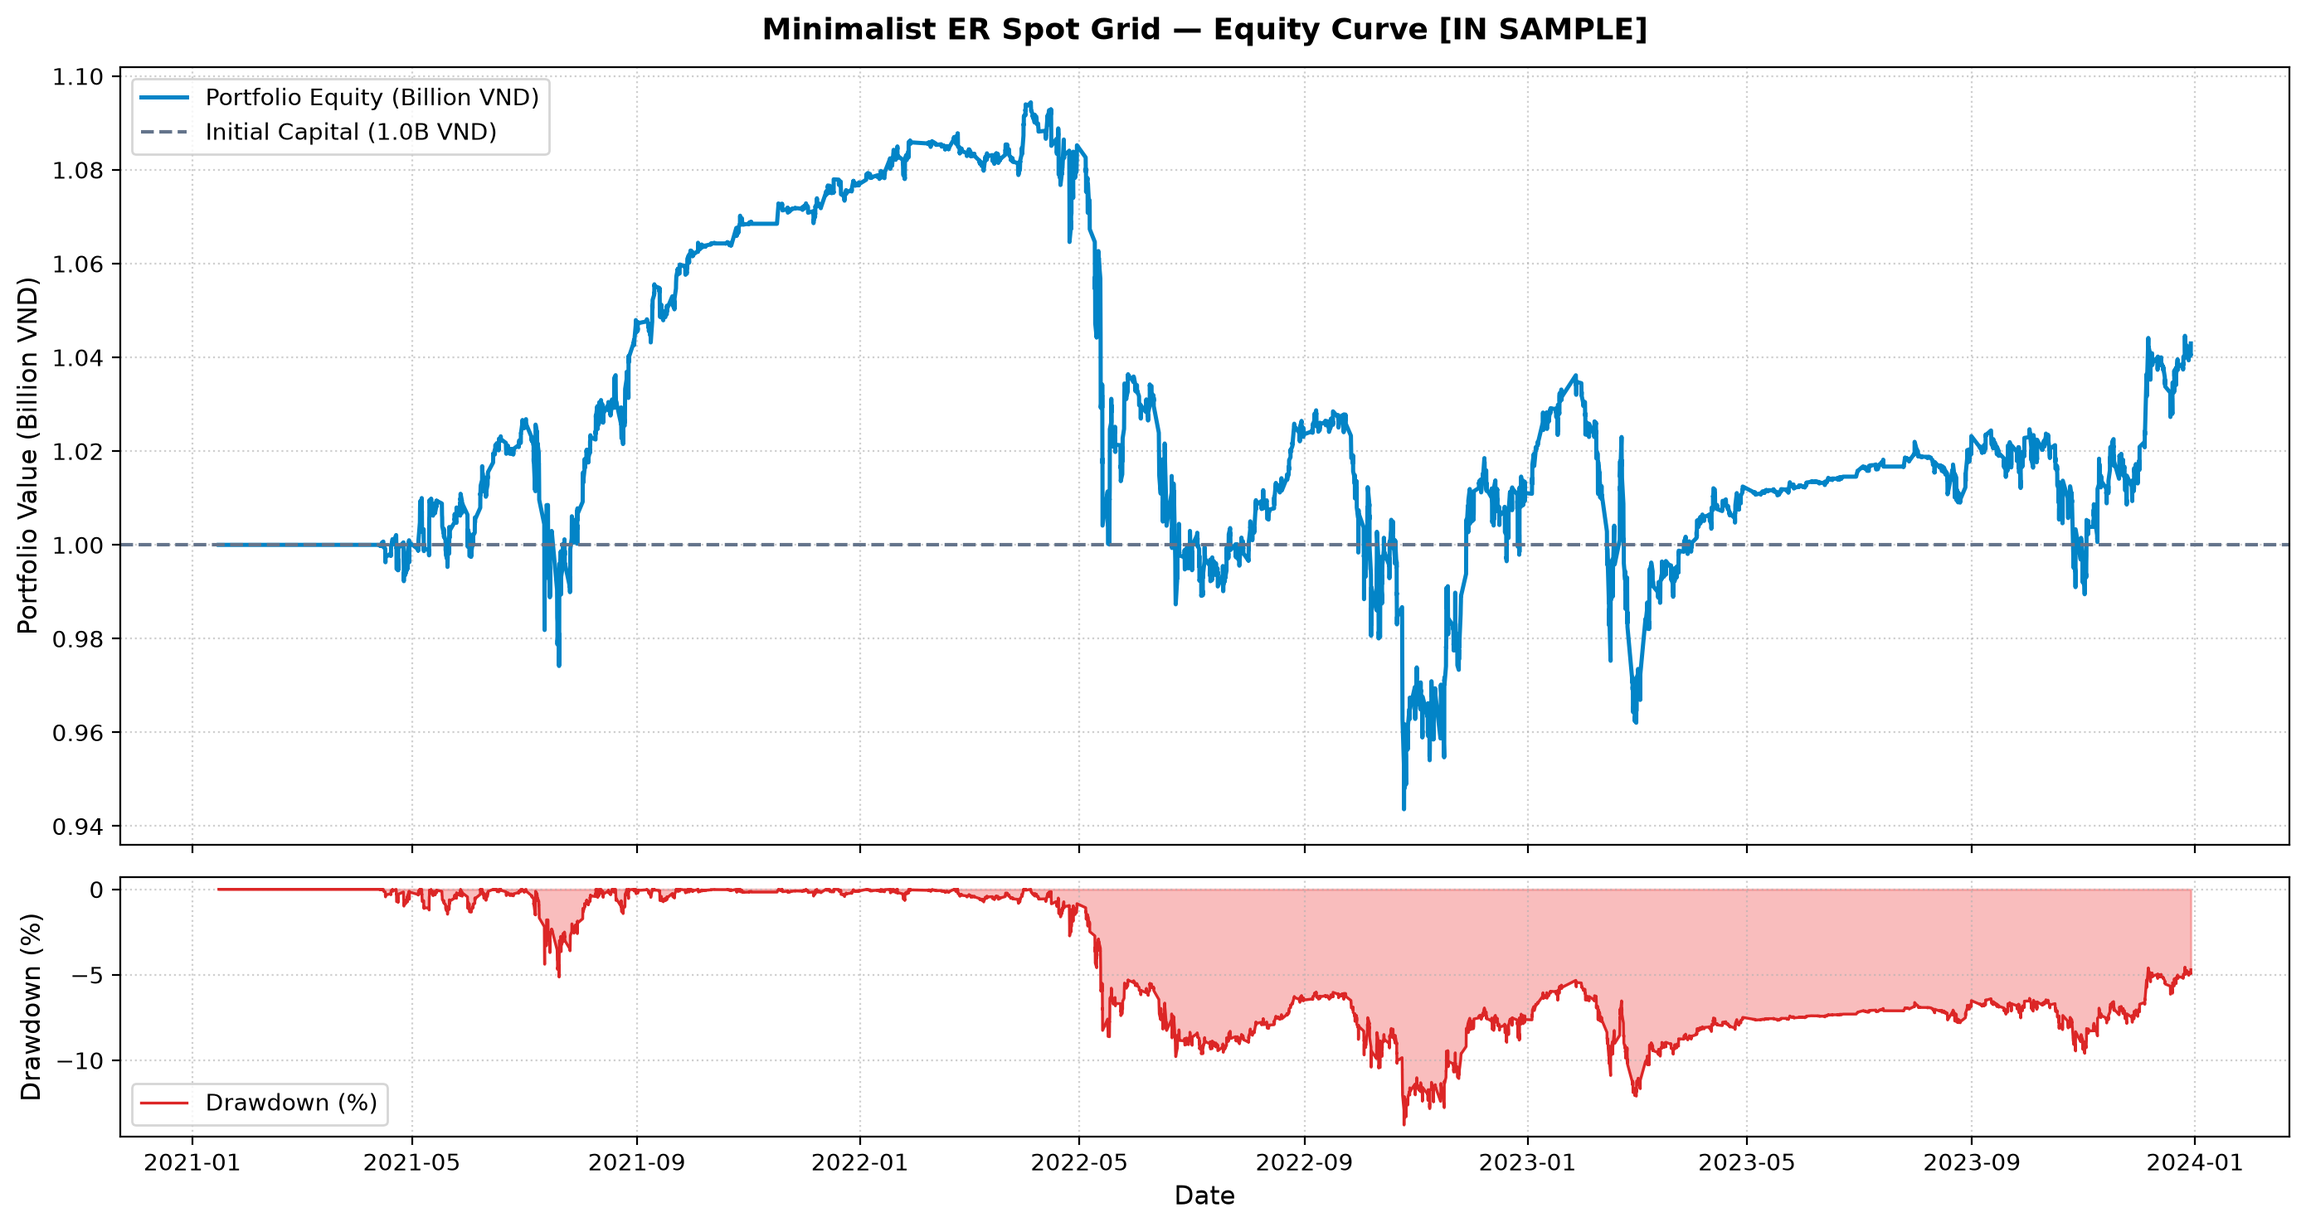
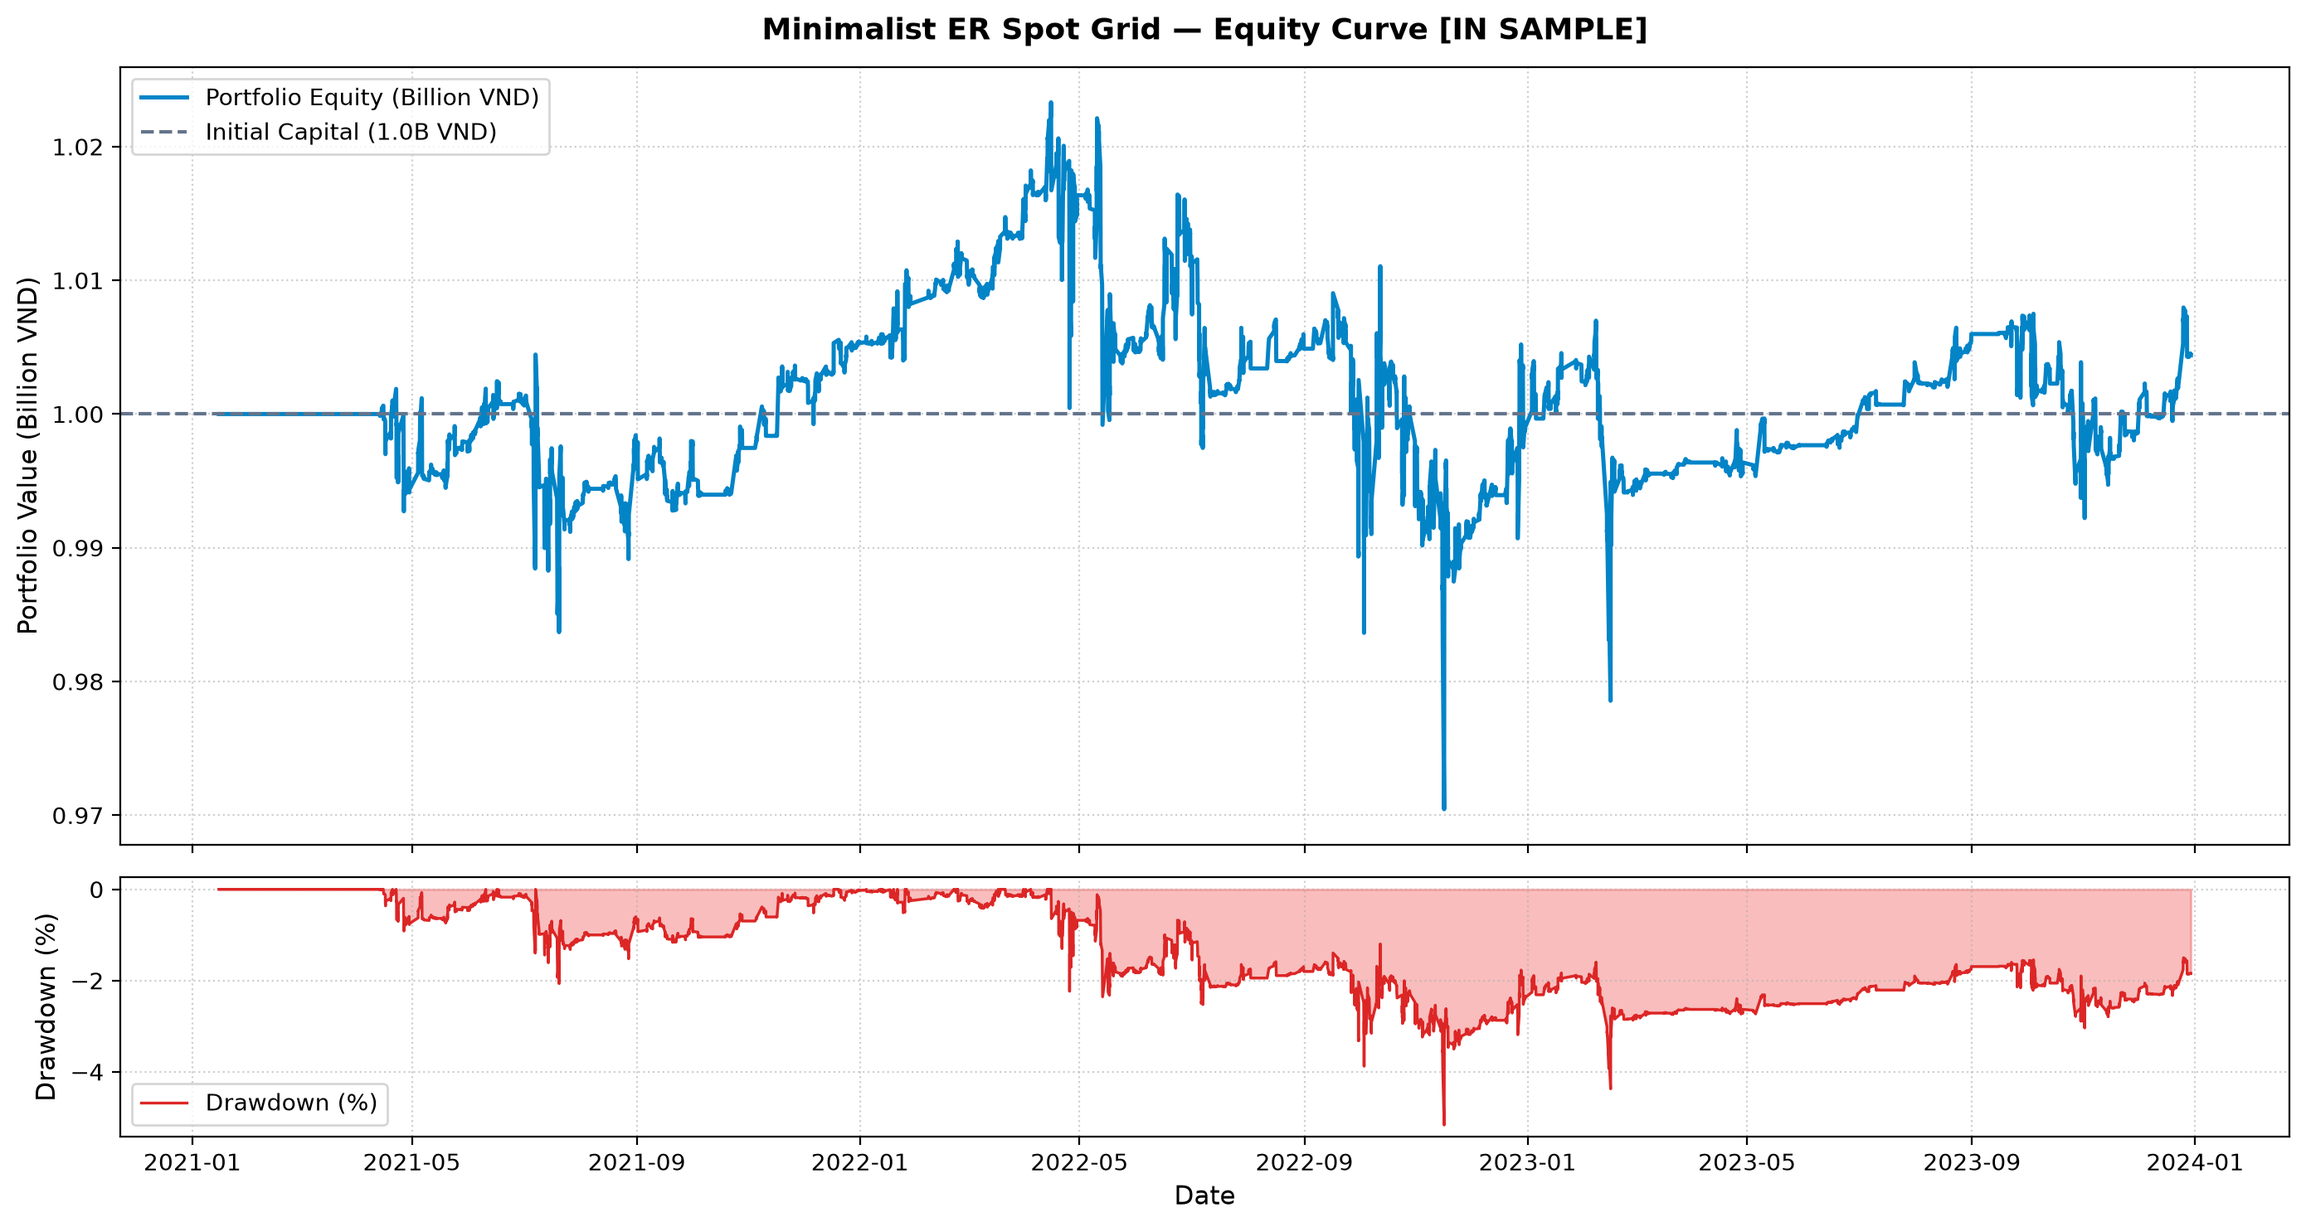
fix(phase-2): engine logic, rotation discipline, settlement calendar, and lot sizing (A-7, A-8, A-12, A-13, A-14)

diff --git a/src/logic.py b/src/logic.py
@@ -17,19 +17,25 @@ def kaufman_er(prices: np.ndarray) -> float:
     volatility = float(np.sum(np.abs(np.diff(prices))))
     return direction / volatility if volatility > 0 else 1.0
 
-def get_settlement_dt(trade_dt: datetime) -> datetime:
+def get_settlement_dt(trade_dt: datetime, trading_days=None) -> datetime:
     """
     HOSE T+2.5 Settlement Availability Rule:
     Shares purchased on day T become eligible for sale at 13:00 PM on T+2.
-    Skips non-trading weekend days.
+    Skips non-trading days (weekends and official Vietnamese holidays via trading calendar).
     """
-    d = trade_dt.date()
-    added = 0
-    while added < 2:
-        d += timedelta(days=1)
-        if d.weekday() < 5:
-            added += 1
-    return datetime.combine(d, datetime.strptime("13:00", "%H:%M").time())
+    if trading_days is not None:
+        d = trade_dt.date()
+        idx = np.searchsorted(trading_days, d)
+        s_idx = min(idx + 2, len(trading_days) - 1)
+        return datetime.combine(trading_days[s_idx], datetime.strptime("13:00", "%H:%M").time())
+    else:
+        d = trade_dt.date()
+        added = 0
+        while added < 2:
+            d += timedelta(days=1)
+            if d.weekday() < 5:
+                added += 1
+        return datetime.combine(d, datetime.strptime("13:00", "%H:%M").time())
 
 def build_zero_overlap_whitelist(
     bars_df,
@@ -38,23 +44,31 @@ def build_zero_overlap_whitelist(
     top_k=4,
     trend_filter="none",
     selection_mode="er_low",
-    seed=42
+    seed=42,
+    use_sma_filter=True
 ):
     """
     Point-in-Time constituent selection based on Kaufman Efficiency Ratio (ER).
     Evaluates rolling historical window [t - lookback_days, t] with zero forward leakage.
-    Supports selection_mode:
-      - 'er_low': Top-K lowest ER (mean-reverting, oscillating - core strategy)
-      - 'er_high': Top-K highest ER (trending, momentum - counter-hypothesis)
-      - 'random': Top-K randomly sampled constituents (benchmark control group)
+    Implements README §3 Rule 1:
+      1. Evaluates 40-day rolling ER.
+      2. Filters for stocks within ±3% of 50-bar SMA fair-value anchor.
+      3. Ranks qualifying equities by ER and selects top-K constituents.
     """
     daily_records = []
+    ticker_history = {}
     for ticker, df in bars_df.groupby("tickersymbol"):
         df = df.sort_values("bar_close").copy()
         if df["close"].max() < 1000:
             for c in ["open", "high", "low", "close"]:
                 df[c] *= 1000.0
         df["date"] = df["bar_close"].dt.date
+        df["sma50"] = df["close"].rolling(50).mean()
+        ticker_history[ticker] = {
+            "dates": df["date"].values,
+            "close": df["close"].values,
+            "sma50": df["sma50"].values
+        }
         daily = df.groupby("date").agg({
             "open": "first", "high": "max", "low": "min", "close": "last", "volume": "sum"
         }).reset_index()
@@ -76,26 +90,53 @@ def build_zero_overlap_whitelist(
             if len(c_hist) < lookback_days * 0.8:
                 continue
             er_val = kaufman_er(c_hist.values)
-            candidates.append((ticker, er_val))
+            
+            sma_pass = True
+            if use_sma_filter:
+                th = ticker_history.get(ticker)
+                if th is not None:
+                    mask_idx = np.searchsorted(th["dates"], rebal_date, side="right") - 1
+                    if mask_idx >= 50:
+                        last_c = th["close"][mask_idx]
+                        sma_v = th["sma50"][mask_idx]
+                        if not np.isnan(sma_v) and sma_v > 0:
+                            sma_pass = (abs(last_c - sma_v) / sma_v <= 0.03)
+                        else:
+                            sma_pass = False
+                    else:
+                        sma_pass = False
+                else:
+                    sma_pass = False
+                    
+            candidates.append((ticker, er_val, sma_pass))
+            
+        if use_sma_filter:
+            qual = [c for c in candidates if c[2]]
+            if len(qual) >= top_k:
+                qual_pool = qual
+            else:
+                rem = [c for c in candidates if not c[2]]
+                rem.sort(key=lambda x: x[1])
+                qual_pool = qual + rem[:(top_k - len(qual))]
+        else:
+            qual_pool = candidates
             
         if selection_mode == "er_low":
-            # Select lowest ER (most mean-reverting oscillating stocks)
-            candidates.sort(key=lambda x: x[1])
-            whitelist[rebal_date] = [c[0] for c in candidates[:top_k]]
+            qual_pool.sort(key=lambda x: x[1])
+            whitelist[rebal_date] = [c[0] for c in qual_pool[:top_k]]
         elif selection_mode == "er_high":
-            # Select highest ER (trending stocks)
-            candidates.sort(key=lambda x: x[1], reverse=True)
-            whitelist[rebal_date] = [c[0] for c in candidates[:top_k]]
+            qual_pool.sort(key=lambda x: x[1], reverse=True)
+            whitelist[rebal_date] = [c[0] for c in qual_pool[:top_k]]
         elif selection_mode == "random":
-            valid_tickers = [c[0] for c in candidates]
+            valid_tickers = [c[0] for c in qual_pool]
             if len(valid_tickers) >= top_k:
                 chosen = rng.choice(valid_tickers, size=top_k, replace=False).tolist()
             else:
                 chosen = valid_tickers
             whitelist[rebal_date] = chosen
         else:
-            candidates.sort(key=lambda x: x[1])
-            whitelist[rebal_date] = [c[0] for c in candidates[:top_k]]
+            qual_pool.sort(key=lambda x: x[1])
+            whitelist[rebal_date] = [c[0] for c in qual_pool[:top_k]]
         
     return whitelist
 
@@ -152,7 +193,10 @@ class MinimalistERGridBacktest:
                 bars_df[c] *= 1000.0
         bars_df = bars_df.sort_values(["bar_close", "tickersymbol"]).reset_index(drop=True)
         
-        # 1. Build Whitelist
+        # Precompute trading days array for institutional settlement calendar (A-12)
+        trading_days = np.array(sorted(bars_df["bar_close"].dt.date.unique()))
+        
+        # 1. Build Whitelist with Rule 1: SMA proximity filter first, then ER ranking (A-8)
         whitelist_by_date = build_zero_overlap_whitelist(
             bars_df,
             lookback_days=self.selection_lookback,
@@ -160,7 +204,8 @@ class MinimalistERGridBacktest:
             top_k=self.top_k,
             trend_filter=self.trend_filter,
             selection_mode=self.selection_mode,
-            seed=self.seed
+            seed=self.seed,
+            use_sma_filter=self.use_sma_filter
         )
         
         # 2. Compute 50-period SMA anchor per ticker
@@ -233,9 +278,18 @@ class MinimalistERGridBacktest:
                         to_remove.append((lvl, pos["tp_price"], False, "target"))
                         continue
 
-                    # 4. Rotation Exit (requires settlement)
-                    if ticker not in cur_wl and can_exit and (grid_info is None):
-                        to_remove.append((lvl, bar_c, True, "rotation_exit"))
+                    # 4. Rotation Exit (requires settlement, A-7)
+                    if ticker not in cur_wl:
+                        if pos.get("pending_rotation_exit", False):
+                            if can_exit:
+                                fill = bar_o
+                                to_remove.append((lvl, fill, True, "settled_rotation_exit"))
+                            continue
+                        if can_exit:
+                            fill = bar_c
+                            to_remove.append((lvl, fill, True, "rotation_exit"))
+                        else:
+                            pos["pending_rotation_exit"] = True
                         continue
                         
                 for (lvl, fill_px, is_stop, reason) in to_remove:
@@ -279,8 +333,6 @@ class MinimalistERGridBacktest:
                     sma_val = anchors[ticker].get(ts, np.nan)
                     if np.isnan(sma_val):
                         continue
-                    if self.use_sma_filter and (abs(float(bar["close"]) - sma_val) / sma_val > 0.03):
-                        continue
                     spacing = sma_val * self.grid_spacing_pct
                     levels = [round(sma_val - k * spacing, 2) for k in range(1, self.n_levels + 1)]
                     tps = [round(sma_val - (k - 1) * spacing, 2) for k in range(1, self.n_levels + 1)]
@@ -301,7 +353,10 @@ class MinimalistERGridBacktest:
             for ticker, g in list(grids.items()):
                 if ticker not in bar_group.index:
                     continue
-                # Block new buys if floor stop was triggered
+                # Rotation discipline: Never place/execute buys on off-whitelist tickers (A-7)
+                if ticker not in cur_wl:
+                    continue
+                # Block new buys if floor stop was triggered (A-10)
                 if g.get("stop_triggered", False):
                     continue
                 # Order placement lag: Newly deployed grid at close of ts only active from bar t+1
@@ -318,11 +373,12 @@ class MinimalistERGridBacktest:
                     if bar_l > buy_px:
                         continue
                         
-                    # Pessimistic Gap Fill: if bar opened below buy limit, fill at Open
+                    # Favorable Gap Fill at open (A-14)
                     fill_base = bar_o if bar_o <= buy_px else buy_px
                     actual_fill = fill_base * (1.0 + self.slippage)
                     
-                    order_shares = max(100, int(round(capital_per_level / actual_fill / 100.0)) * 100)
+                    # Tranche sizing strictly adhering to floor formula (A-13)
+                    order_shares = max(100, int(np.floor(capital_per_level / actual_fill / 100.0)) * 100)
                     entry_cost = actual_fill * order_shares * self.broker_fee
                     total_cost = actual_fill * order_shares + entry_cost
                     if cash < total_cost:
@@ -334,8 +390,9 @@ class MinimalistERGridBacktest:
                         "tp_price": g["tps"][lvl_idx - 1],
                         "entry_cost": entry_cost,
                         "entry_ts": ts,
-                        "settlement": get_settlement_dt(ts),
-                        "pending_floor_stop": False
+                        "settlement": get_settlement_dt(ts, trading_days),
+                        "pending_floor_stop": False,
+                        "pending_rotation_exit": False
                     }
                     
             pos_val = 0.0
@@ -382,7 +439,7 @@ class MinimalistERGridBacktest:
             longest_dd_days = int(round(max_days))
             
         rets = eq_series.pct_change().dropna()
-        bars_per_year = 252.0 * 9.0  # 9 30-minute bars per day on HOSE
+        bars_per_year = 252.0 * 9.0  # 9 30-minute bars per day on HOSE (A-5)
         rf_per_bar = self.risk_free_rate / bars_per_year
         excess_mean = float(rets.mean() - rf_per_bar)
         sharpe = float(excess_mean / rets.std() * np.sqrt(bars_per_year)) if rets.std() > 0 else 0.0
@@ -396,14 +453,29 @@ class MinimalistERGridBacktest:
         daily_excess = daily_rets.mean() - rf_daily
         daily_sharpe = float(daily_excess / daily_rets.std() * np.sqrt(252)) if (len(daily_rets) > 0 and daily_rets.std() > 0) else 0.0
         
-        calmar = (cagr / abs(max_dd)) if max_dd != 0 else 0.0  # Preserves sign for losses
+        calmar = (cagr / abs(max_dd)) if max_dd != 0 else 0.0  # Preserves sign for losses (A-15)
         
         tp_trades = self.trades_df[self.trades_df["reason"] == "target"] if len(self.trades_df) > 0 else pd.DataFrame()
-        drag_trades = self.trades_df[self.trades_df["reason"] != "target"] if len(self.trades_df) > 0 else pd.DataFrame()
+        rot_trades = self.trades_df[self.trades_df["reason"].str.contains("rotation")] if len(self.trades_df) > 0 else pd.DataFrame()
+        stop_trades = self.trades_df[self.trades_df["reason"].str.contains("floor_stop")] if len(self.trades_df) > 0 else pd.DataFrame()
         
         tp_pnl = float(tp_trades["pnl"].sum()) if len(tp_trades) > 0 else 0.0
-        drag_pnl = float(drag_trades["pnl"].sum()) if len(drag_trades) > 0 else 0.0
+        rot_pnl = float(rot_trades["pnl"].sum()) if len(rot_trades) > 0 else 0.0
+        stop_pnl = float(stop_trades["pnl"].sum()) if len(stop_trades) > 0 else 0.0
         win_rate = (len(tp_trades) / len(self.trades_df) * 100.0) if len(self.trades_df) > 0 else 0.0
+        
+        # Period-end open inventory mark-to-market (A-4)
+        open_shares_count = 0
+        open_cost_basis = 0.0
+        for t, l_dict in positions.items():
+            for p in l_dict.values():
+                open_shares_count += p["shares"]
+                open_cost_basis += p["entry_price"] * p["shares"] + p["entry_cost"]
+        open_market_val = sum(
+            sum(p["shares"] for p in l_dict.values()) * (float(last_known_close.get(t, 0.0)))
+            for t, l_dict in positions.items()
+        )
+        unrealized_pnl = open_market_val - open_cost_basis
         
         return {
             "initial_capital": self.capital,
@@ -419,10 +491,14 @@ class MinimalistERGridBacktest:
             "calmar_ratio": calmar,
             "total_trades": len(self.trades_df),
             "tp_trades": len(tp_trades),
-            "drag_trades": len(drag_trades),
+            "rot_trades": len(rot_trades),
+            "stop_trades": len(stop_trades),
             "win_rate": win_rate,
             "spot_harvest_pnl": tp_pnl,
-            "spot_drag_pnl": drag_pnl,
+            "rotation_pnl": rot_pnl,
+            "floor_stop_pnl": stop_pnl,
+            "open_inventory_value": open_market_val,
+            "unrealized_pnl": unrealized_pnl,
             "equity_series": eq_series
         }
 

diff --git a/run_holdout.py b/run_holdout.py
@@ -58,8 +58,10 @@ def main():
     print(f"Daily Sharpe:       {res['daily_sharpe']:.3f} (30m Sharpe: {res['sharpe_ratio']:.3f})")
     print(f"Calmar Ratio:       {res['calmar_ratio']:.3f}")
     print(f"Spot Harvest PnL:   {res['spot_harvest_pnl']:+,.0f} VND (TP Trades: {res['tp_trades']})")
-    print(f"Spot Drag PnL:      {res['spot_drag_pnl']:+,.0f} VND (Floor Stops: {res['drag_trades']})")
+    print(f"Rotation PnL:       {res['rotation_pnl']:+,.0f} VND (Rotations: {res['rot_trades']})")
+    print(f"Floor Stop PnL:     {res['floor_stop_pnl']:+,.0f} VND (Floor Stops: {res['stop_trades']})")
     print(f"Total Trades:       {res['total_trades']} (Win Rate: {res['win_rate']:.1f}%)")
+    print(f"Period-End Inventory:{res['open_inventory_value']:+,.0f} VND (Unrealized: {res['unrealized_pnl']:+,.0f} VND)")
     print("=" * 70)
 
     with pv.step("holdout_evaluation") as r:

diff --git a/run_oos.py b/run_oos.py
@@ -58,8 +58,10 @@ def main():
     print(f"Daily Sharpe:       {res['daily_sharpe']:.3f} (30m Sharpe: {res['sharpe_ratio']:.3f})")
     print(f"Calmar Ratio:       {res['calmar_ratio']:.3f}")
     print(f"Spot Harvest PnL:   {res['spot_harvest_pnl']:+,.0f} VND (TP Trades: {res['tp_trades']})")
-    print(f"Spot Drag PnL:      {res['spot_drag_pnl']:+,.0f} VND (Floor Stops: {res['drag_trades']})")
+    print(f"Rotation PnL:       {res['rotation_pnl']:+,.0f} VND (Rotations: {res['rot_trades']})")
+    print(f"Floor Stop PnL:     {res['floor_stop_pnl']:+,.0f} VND (Floor Stops: {res['stop_trades']})")
     print(f"Total Trades:       {res['total_trades']} (Win Rate: {res['win_rate']:.1f}%)")
+    print(f"Period-End Inventory:{res['open_inventory_value']:+,.0f} VND (Unrealized: {res['unrealized_pnl']:+,.0f} VND)")
     print("=" * 70)
 
     with pv.step("out_of_sample") as r:

diff --git a/run_is.py b/run_is.py
@@ -58,8 +58,10 @@ def main():
     print(f"Daily Sharpe:       {res['daily_sharpe']:.3f} (30m Sharpe: {res['sharpe_ratio']:.3f})")
     print(f"Calmar Ratio:       {res['calmar_ratio']:.3f}")
     print(f"Spot Harvest PnL:   {res['spot_harvest_pnl']:+,.0f} VND (TP Trades: {res['tp_trades']})")
-    print(f"Spot Drag PnL:      {res['spot_drag_pnl']:+,.0f} VND (Floor Stops: {res['drag_trades']})")
+    print(f"Rotation PnL:       {res['rotation_pnl']:+,.0f} VND (Rotations: {res['rot_trades']})")
+    print(f"Floor Stop PnL:     {res['floor_stop_pnl']:+,.0f} VND (Floor Stops: {res['stop_trades']})")
     print(f"Total Trades:       {res['total_trades']} (Win Rate: {res['win_rate']:.1f}%)")
+    print(f"Period-End Inventory:{res['open_inventory_value']:+,.0f} VND (Unrealized: {res['unrealized_pnl']:+,.0f} VND)")
     print("=" * 70)
 
     with pv.step("in_sample") as r:

diff --git a/src/data_fetcher.py b/src/data_fetcher.py
@@ -8,8 +8,15 @@ def prepare_data(config, split="in_sample"):
     data_cfg = config.get("data", {})
     strat_dir = os.path.dirname(os.path.dirname(os.path.abspath(__file__)))
     
-    file_key = f"{split}_file"
+    split_map = {
+        "out_of_sample": "out_sample",
+        "forward_holdout": "holdout"
+    }
+    split_norm = split_map.get(split, split)
+    file_key = f"{split_norm}_file"
     raw_path = data_cfg.get(file_key, "")
+    if not raw_path:
+        raise ValueError(f"No file path configured for split '{split}' (key '{file_key}')")
     if not os.path.isabs(raw_path):
         spot_path = os.path.join(strat_dir, raw_path)
     else:
